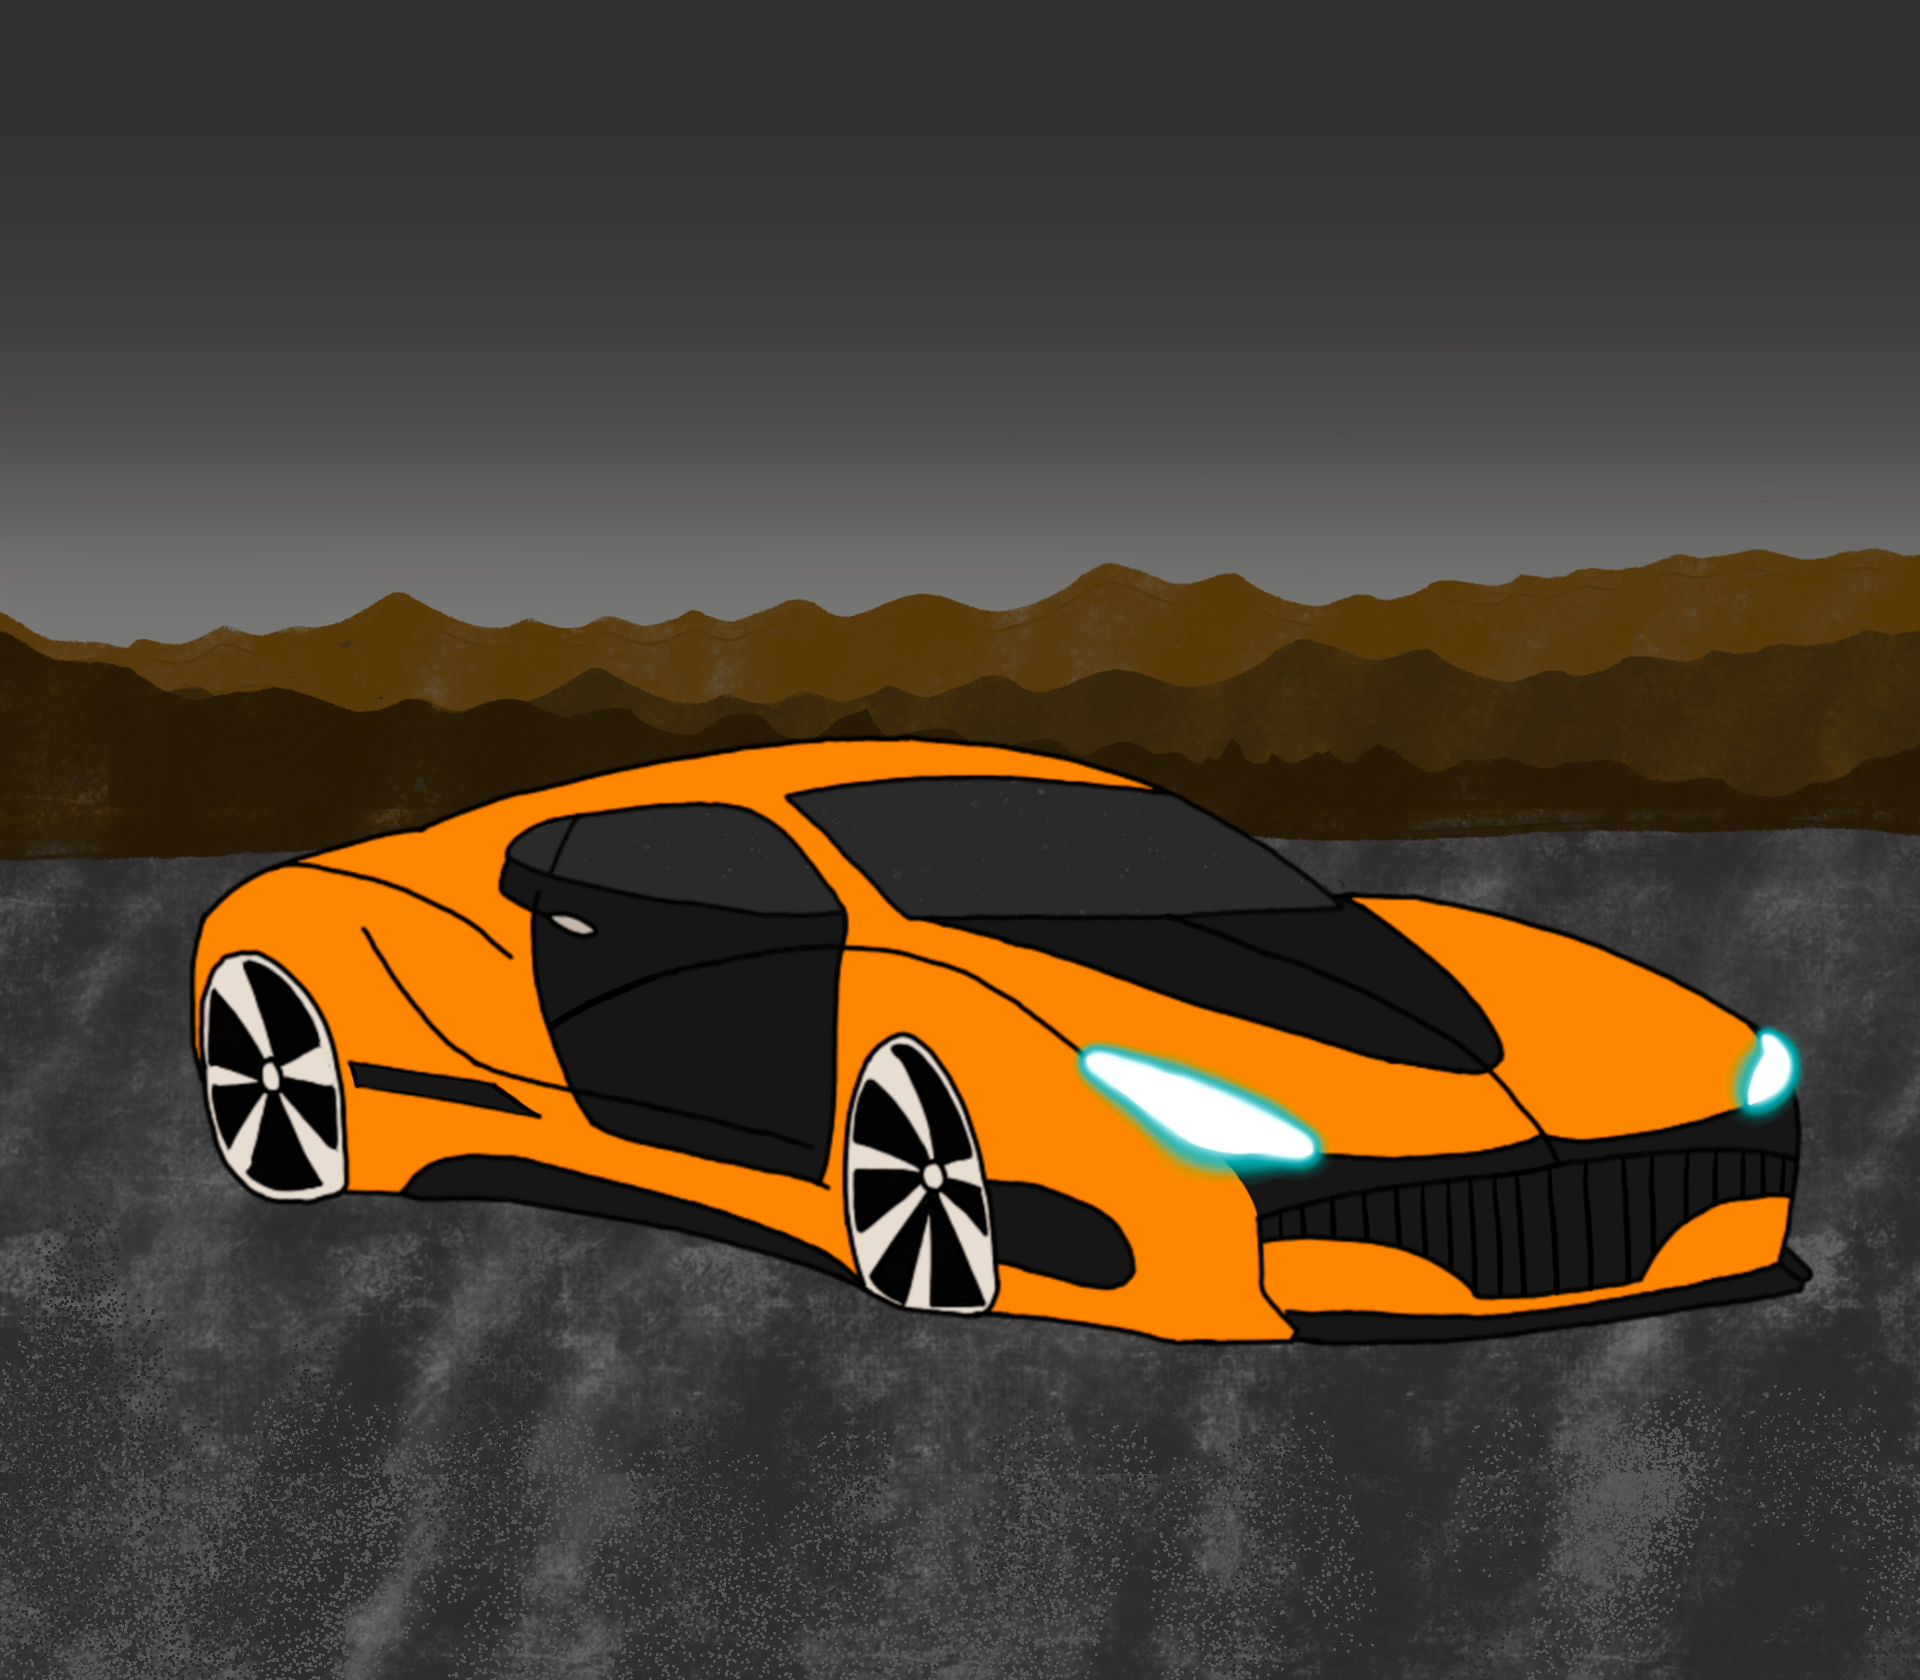
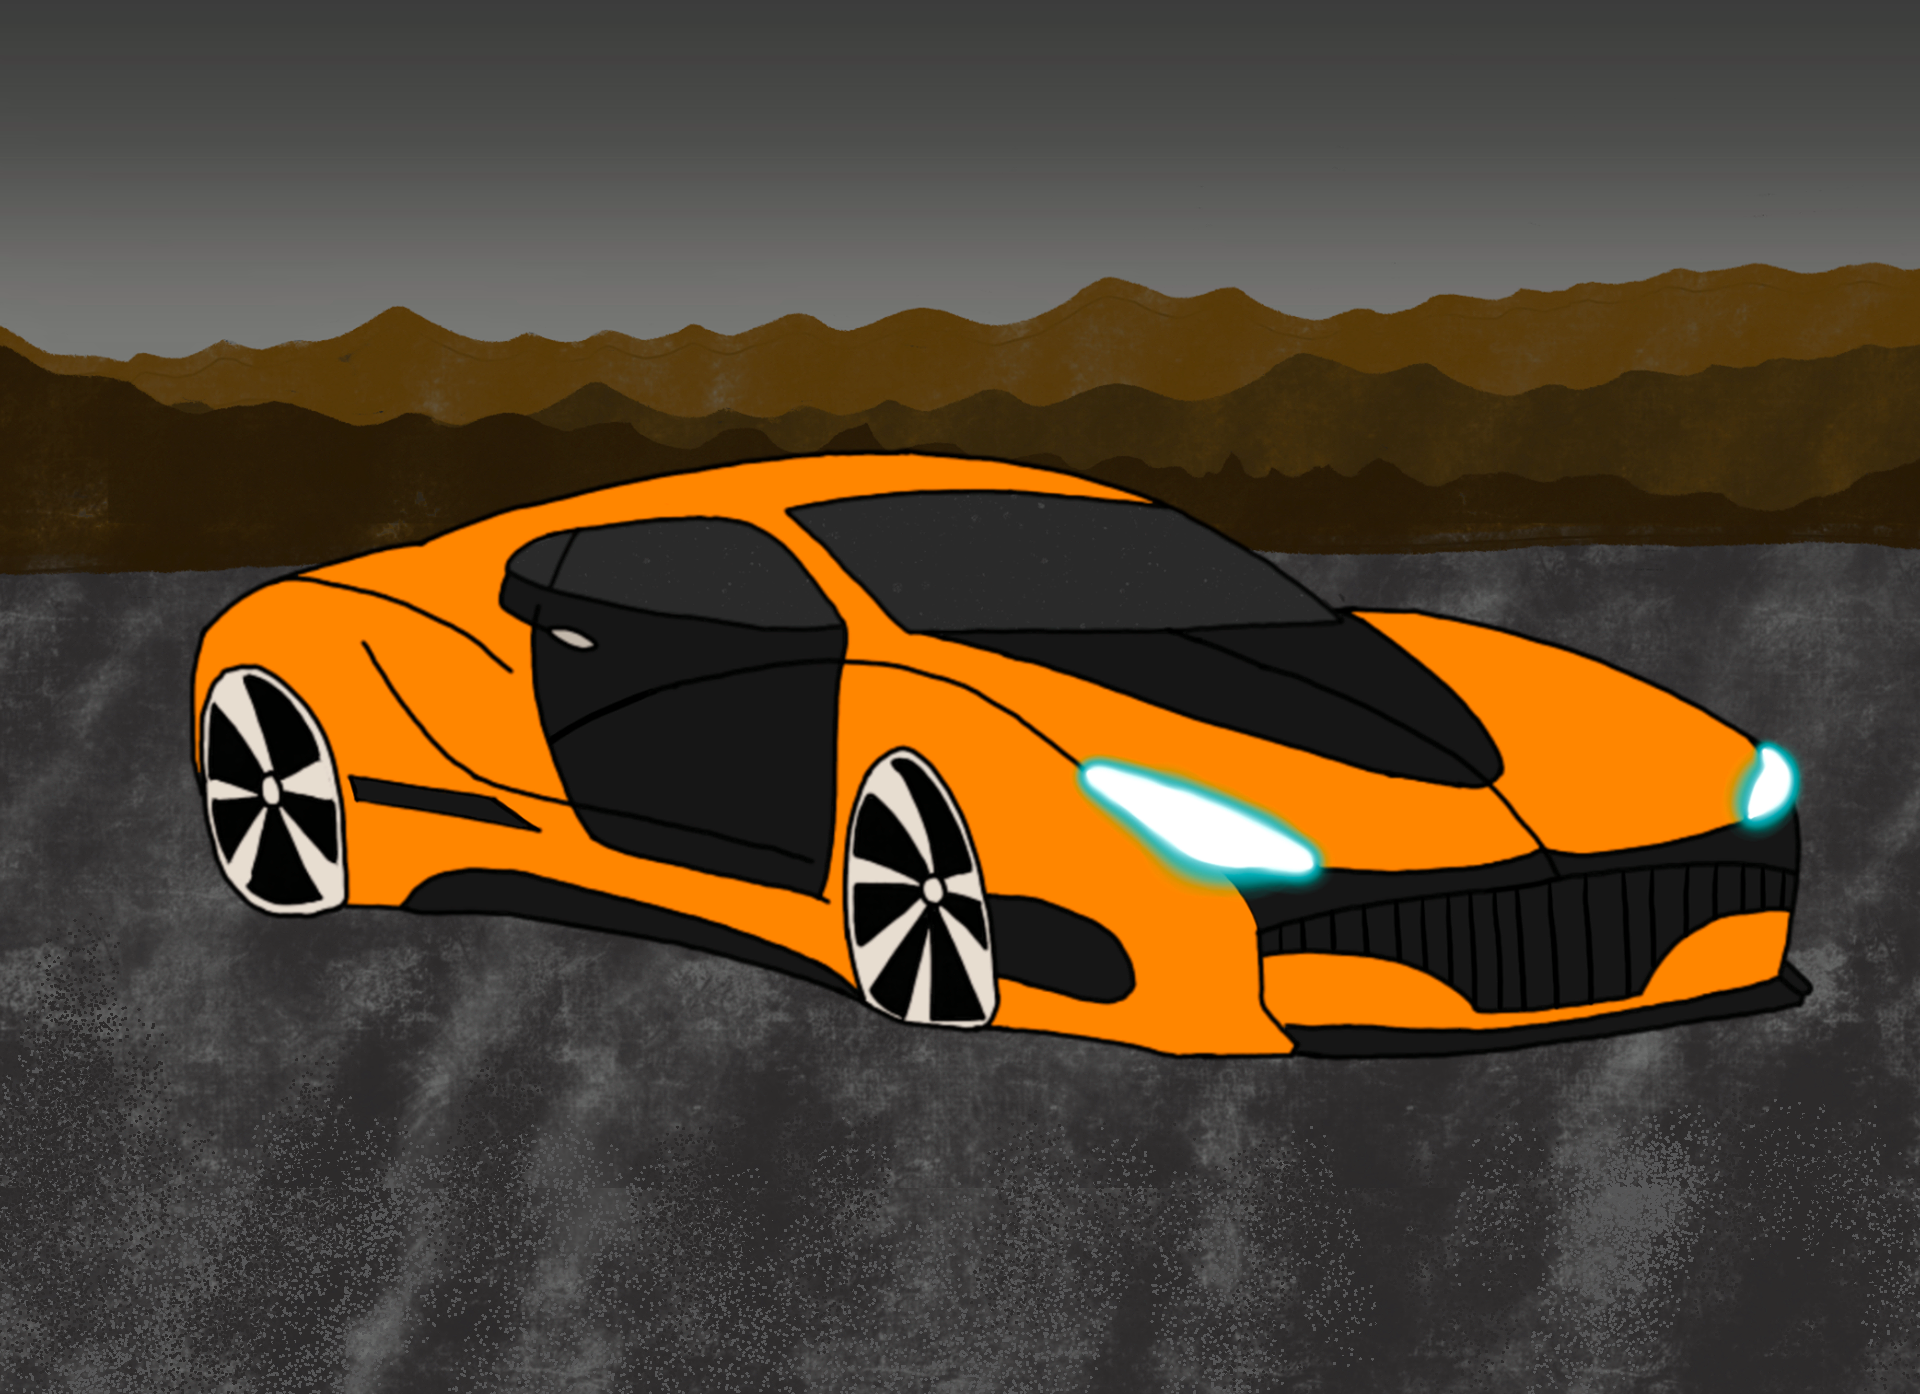
beskåret billede
beskåret bil billede

diff --git a/index.html b/index.html
@@ -34,7 +34,7 @@
             <p>Portfolio</p></main>
             <div id="content1"><img src="Climarsphotoshop.jpg" alt="rumrejsen"></div>
             <div id="content2"><img src="Tangodanssenior.jpeg" alt="tangodans"></div>
-            <div id="content3"><img src="concept-car-A.png" alt="konceptbil"></div>
+            <div id="content3"><img src="concept-car-cut.png" alt="konceptbil"></div>
             <div id="content4"><video controls>
                 <source src="Mahdi videoportrait .mp4" type="video/mp4">
             </div>

diff --git a/style.css b/style.css
@@ -129,8 +129,8 @@
     }
     #content4 video{
         width: 100%;
-        height: 120%;
-        padding-bottom: 4.5rem;
+        height: 100%;
+        padding-bottom: 2.5rem;
     }
     .button{
         grid-area: button;
